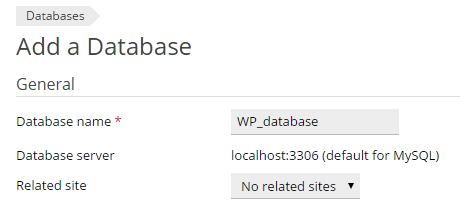
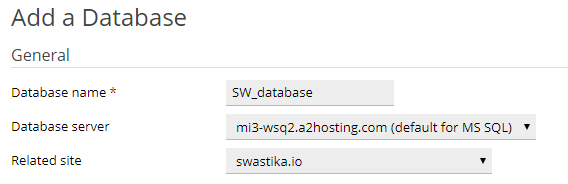
upd images

diff --git a/docs/installing.md b/docs/installing.md
@@ -28,11 +28,11 @@ Begin your installation by:
 
 Here's the quick version of the instructions for those who are already comfortable with performing such installations. More detailed instructions follow.
 
-If you are not comfortable with renaming files, step 3 is optional and you can skip it as the install program will create the wp-config.php file for you.
+If you are not comfortable with renaming files, step 3 is optional and you can skip it as the install program will create the sw-config.php file for you.
 
 1. Download and unzip the Swastika I/O Core CMS package if you haven't already.
 2. Create a database for Swastika I/O Core CMS on your web server, as well as a MS SQL Server Database user who has all privileges for accessing and modifying it.
-3. (Optional) Find and rename wp-config-sample.php to wp-config.php, then edit the file (see Editing wp-config.php) and add your database information. (TBC)
+3. (Optional) Find and rename sw-config-sample.php to sw-config.php, then edit the file (see Editing sw-config.php) and add your database information. (TBC)
 4. Upload the Swastika I/O Core CMS files to the desired location on your web server:
  - If you want to integrate Swastika I/O Core CMS into the root of your domain (e.g. http://example.com/), move or upload all contents of the unzipped Swastika I/O Core CMS directory (excluding the Swastika I/O Core CMS directory itself) into the root directory of your web server.
  - If you want to have your Swastika I/O Core CMS installation in its own subdirectory on your website (e.g. http://example.com/blog/), create the blog directory on your server and upload the contents of the unzipped Swastika I/O Core CMS package to the directory via FTP.
@@ -98,7 +98,7 @@ Note: Plesk recommends all users to install and manage Swastika I/O Core CMS usi
 
  ![plesk_create_db_6](_images/plesk_create_db_6.png)
 
-## Step 3: Set up wp-config.php
+## Step 3: Set up sw-config.php
 
 ## Step 4: Upload the files
 
